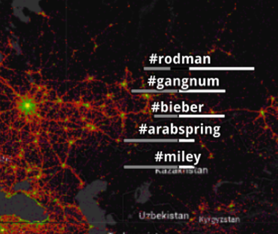
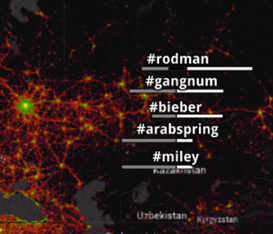
Resized images and sidebar contents to fit in new site layout

diff --git a/docs/src/_includes/tour-system-description.html b/docs/src/_includes/tour-system-description.html
@@ -1,4 +1,2 @@
-<p>
-	<img src="../../img/aggregation-marker.png" class="home-image" alt="Interactive Aggregation Markers"/>
-	Interactive aggregation markers provide per tile analytics.
-</p>
+<img src="../../img/aggregation-marker.png" class="home-image" alt="Interactive Aggregation Markers"/>
+Interactive aggregation markers provide per tile analytics.
